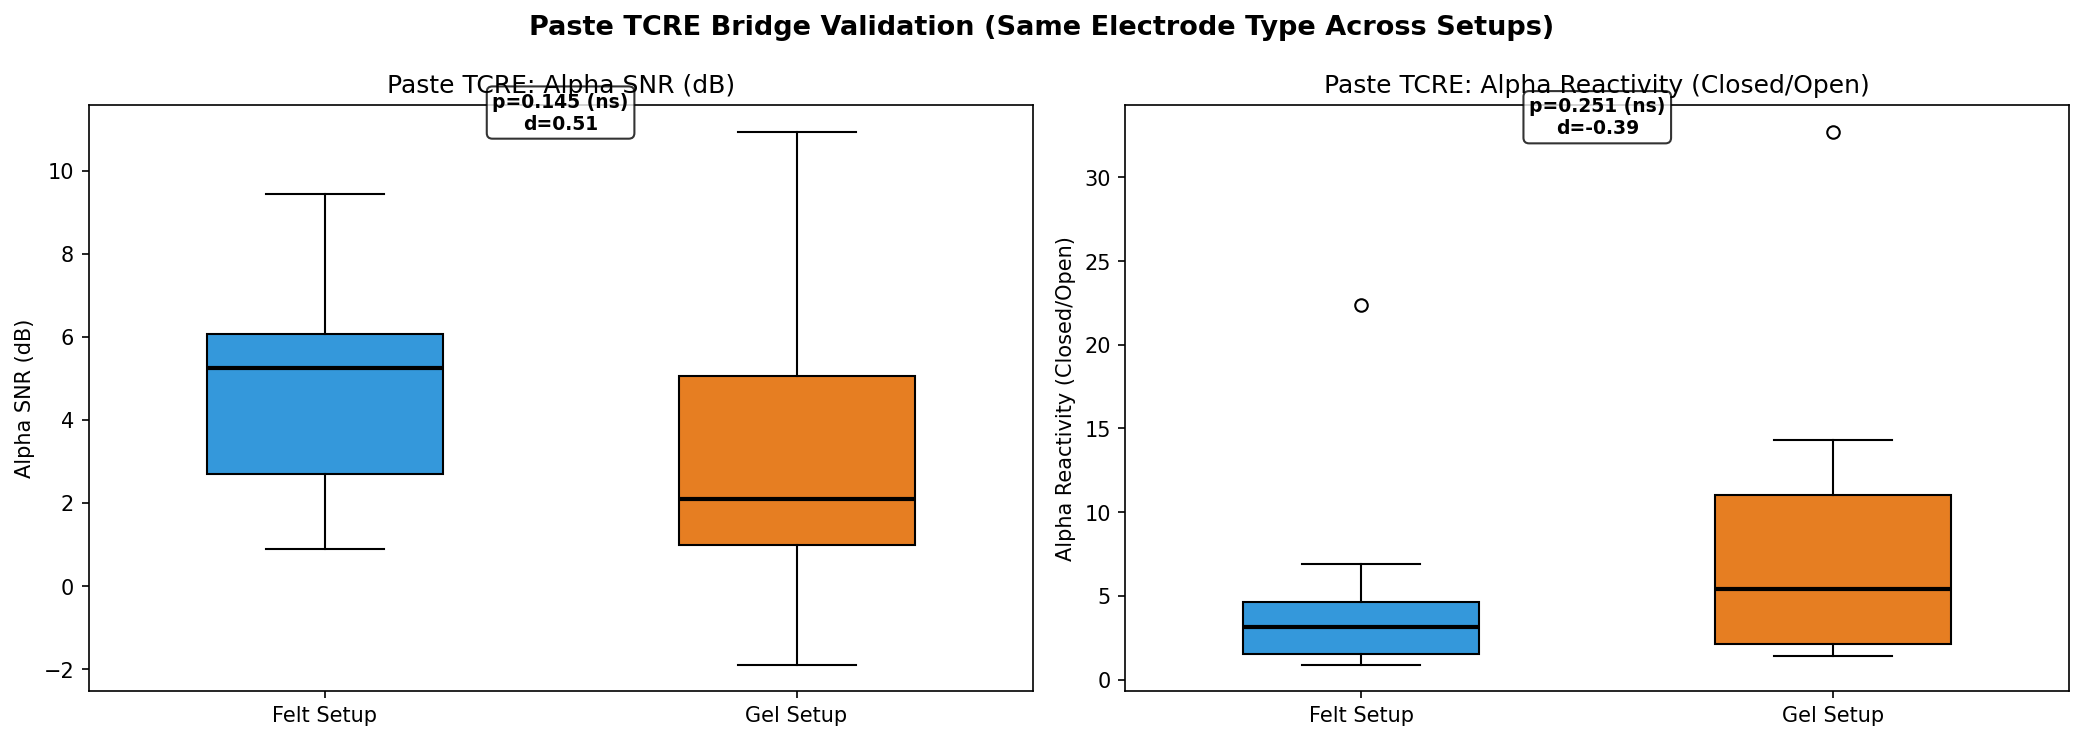
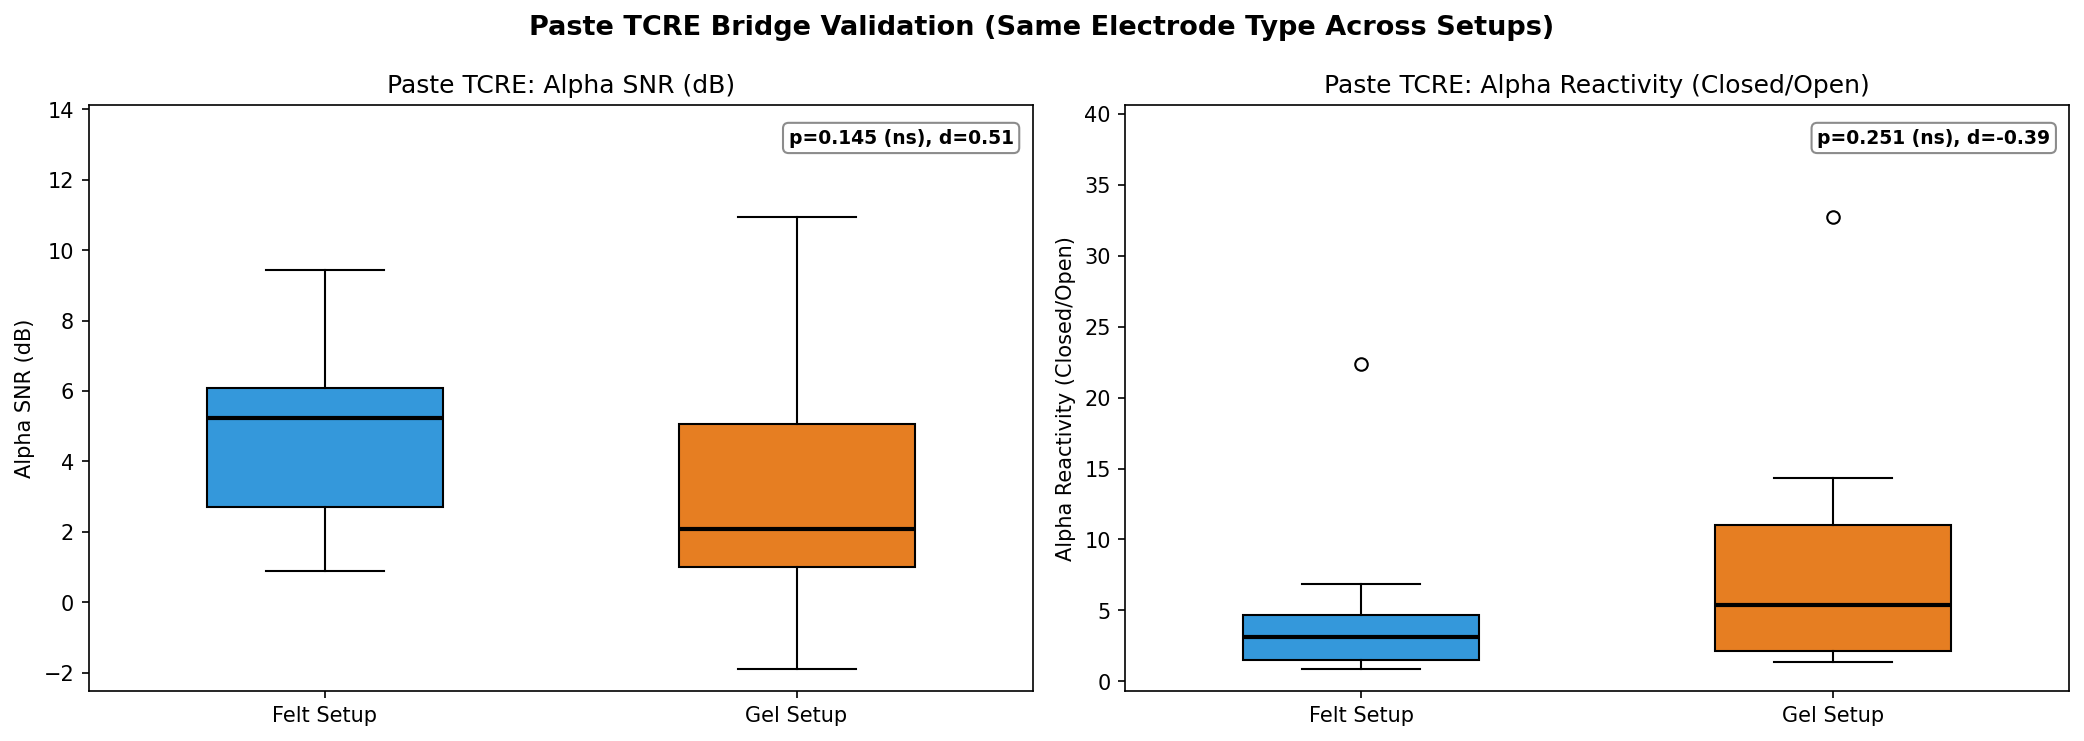
Move paste-bridge p-value box out of the title area
The annotation box reporting p and Cohen's d on each Paste TCRE
bridge subplot was anchored at y=0.95*ymax in data coordinates and
horizontally centred between the two box-plots, which placed it on
top of the subplot title. Switch to axes-fraction coordinates with
the box anchored to the top-right corner (0.98, 0.96), pad the
y-axis by 18 percent so the box has clear headroom, and tighten
the bbox styling. The boxes now sit cleanly inside each panel
without overlapping the title.

Numbers in auto_stats.{md,json} were re-emitted by the same run
that regenerated the figure; their content is unchanged.

diff --git a/src/tripolar_eeg/comparison_analysis.py b/src/tripolar_eeg/comparison_analysis.py
@@ -1111,10 +1111,16 @@ def plot_three_way_comparison(felt_subjects, gel_subjects, save_dir=None, show=T
             if bridge_key in comp["comparisons"]:
                 c = comp["comparisons"][bridge_key]
                 sig = "***" if c["p"] < 0.001 else "**" if c["p"] < 0.01 else "*" if c["p"] < 0.05 else "ns"
-                ax.text(1.5, ax.get_ylim()[1] * 0.95,
-                        f"p={c['p']:.3f} ({sig})\nd={c['d']:.2f}",
-                        ha="center", fontsize=9, fontweight="bold",
-                        bbox=dict(boxstyle="round", fc="white", alpha=0.8))
+                # Pad the y-range so the annotation sits in clear headroom
+                # below the subplot title rather than overlapping it.
+                lo, hi = ax.get_ylim()
+                ax.set_ylim(lo, hi + 0.18 * (hi - lo))
+                ax.text(0.98, 0.96,
+                        f"p={c['p']:.3f} ({sig}), d={c['d']:.2f}",
+                        transform=ax.transAxes, ha="right", va="top",
+                        fontsize=9, fontweight="bold",
+                        bbox=dict(boxstyle="round,pad=0.3",
+                                  fc="white", ec="0.5", alpha=0.9))
 
         plt.tight_layout()
         _save_or_show(fig, "comparison_paste_bridge.png")

diff --git a/paper/auto_stats.md b/paper/auto_stats.md
@@ -38,27 +38,29 @@ Source: `scripts/build_paper_stats.py` on the pooled-felt cohort (felt = long + 
 | alpha_reactivity | 10 | 13 | 46.0 | 0.251 | -0.39 |
 | ssim | 10 | 13 | 69.0 | 0.828 | 0.01 |
 
-## All Mann–Whitney comparisons
-| Contrast | n_a | n_b | U | p | Cohen d |
-|--|--|--|--|--|--|
-| Felt_tEEG_vs_Paste_tEEG_alpha_snr | 10 | 10 | 1.0 | 0.004 | -1.34 |
-| Felt_tEEG_vs_Paste_tEEG_alpha_reactivity | 10 | 10 | 5.0 | 0.020 | -0.58 |
-| Felt_tEEG_vs_Paste_tEEG_ssim | 10 | 10 | 1.0 | 0.004 | -1.95 |
-| Gel_tEEG_vs_Paste_tEEG_alpha_snr | 13 | 13 | 25.0 | 0.168 | -0.41 |
-| Gel_tEEG_vs_Paste_tEEG_alpha_reactivity | 13 | 13 | 23.0 | 0.127 | -0.43 |
-| Gel_tEEG_vs_Paste_tEEG_ssim | 13 | 13 | 7.0 | 0.005 | -1.03 |
-| Felt_eEEG_vs_Paste_eEEG_alpha_snr | 10 | 10 | 8.0 | 0.049 | -0.76 |
-| Felt_eEEG_vs_Paste_eEEG_alpha_reactivity | 10 | 10 | 14.0 | 0.193 | -0.38 |
-| Felt_eEEG_vs_Paste_eEEG_ssim | 10 | 10 | 1.0 | 0.004 | -1.95 |
-| Gel_eEEG_vs_Paste_eEEG_alpha_snr | 13 | 13 | 19.0 | 0.068 | -0.53 |
-| Gel_eEEG_vs_Paste_eEEG_alpha_reactivity | 13 | 13 | 32.0 | 0.376 | -0.28 |
-| Gel_eEEG_vs_Paste_eEEG_ssim | 13 | 13 | 7.0 | 0.005 | -1.03 |
-| Felt_tEEG_vs_Gel_tEEG_alpha_snr | 10 | 13 | 68.0 | 0.877 | -0.00 |
-| Felt_tEEG_vs_Gel_tEEG_alpha_reactivity | 10 | 13 | 26.0 | 0.017 | -1.11 |
-| Felt_tEEG_vs_Gel_tEEG_ssim | 10 | 13 | 0.0 | 0.000 | -2.52 |
-| Felt_eEEG_vs_Gel_eEEG_alpha_snr | 10 | 13 | 50.0 | 0.369 | -0.58 |
-| Felt_eEEG_vs_Gel_eEEG_alpha_reactivity | 10 | 13 | 34.0 | 0.059 | -0.81 |
-| Felt_eEEG_vs_Gel_eEEG_ssim | 10 | 13 | 0.0 | 0.000 | -2.52 |
-| Paste_bridge_felt_vs_gel_alpha_snr | 10 | 13 | 89.0 | 0.145 | 0.51 |
-| Paste_bridge_felt_vs_gel_alpha_reactivity | 10 | 13 | 46.0 | 0.251 | -0.39 |
-| Paste_bridge_felt_vs_gel_ssim | 10 | 13 | 69.0 | 0.828 | 0.01 |
+## All cross-construction comparisons
+Within-setup contrasts (paired by subject) use Wilcoxon signed-rank with Cohen's $d_z$; between-setup contrasts use Mann--Whitney U with Cohen's $d$.
+
+| Contrast | Test | n_a | n_b | stat | p | d / d_z |
+|--|--|--|--|--|--|--|
+| Felt_tEEG_vs_Paste_tEEG_alpha_snr | Wilcoxon signed-rank | 10 | 10 | 1.0 | 0.004 | -1.34 |
+| Felt_tEEG_vs_Paste_tEEG_alpha_reactivity | Wilcoxon signed-rank | 10 | 10 | 5.0 | 0.020 | -0.58 |
+| Felt_tEEG_vs_Paste_tEEG_ssim | Wilcoxon signed-rank | 10 | 10 | 1.0 | 0.004 | -1.95 |
+| Gel_tEEG_vs_Paste_tEEG_alpha_snr | Wilcoxon signed-rank | 13 | 13 | 25.0 | 0.168 | -0.41 |
+| Gel_tEEG_vs_Paste_tEEG_alpha_reactivity | Wilcoxon signed-rank | 13 | 13 | 23.0 | 0.127 | -0.43 |
+| Gel_tEEG_vs_Paste_tEEG_ssim | Wilcoxon signed-rank | 13 | 13 | 7.0 | 0.005 | -1.03 |
+| Felt_eEEG_vs_Paste_eEEG_alpha_snr | Wilcoxon signed-rank | 10 | 10 | 8.0 | 0.049 | -0.76 |
+| Felt_eEEG_vs_Paste_eEEG_alpha_reactivity | Wilcoxon signed-rank | 10 | 10 | 14.0 | 0.193 | -0.38 |
+| Felt_eEEG_vs_Paste_eEEG_ssim | Wilcoxon signed-rank | 10 | 10 | 1.0 | 0.004 | -1.95 |
+| Gel_eEEG_vs_Paste_eEEG_alpha_snr | Wilcoxon signed-rank | 13 | 13 | 19.0 | 0.068 | -0.53 |
+| Gel_eEEG_vs_Paste_eEEG_alpha_reactivity | Wilcoxon signed-rank | 13 | 13 | 32.0 | 0.376 | -0.28 |
+| Gel_eEEG_vs_Paste_eEEG_ssim | Wilcoxon signed-rank | 13 | 13 | 7.0 | 0.005 | -1.03 |
+| Felt_tEEG_vs_Gel_tEEG_alpha_snr | Mann-Whitney U | 10 | 13 | 68.0 | 0.877 | -0.00 |
+| Felt_tEEG_vs_Gel_tEEG_alpha_reactivity | Mann-Whitney U | 10 | 13 | 26.0 | 0.017 | -1.11 |
+| Felt_tEEG_vs_Gel_tEEG_ssim | Mann-Whitney U | 10 | 13 | 0.0 | 0.000 | -2.52 |
+| Felt_eEEG_vs_Gel_eEEG_alpha_snr | Mann-Whitney U | 10 | 13 | 50.0 | 0.369 | -0.58 |
+| Felt_eEEG_vs_Gel_eEEG_alpha_reactivity | Mann-Whitney U | 10 | 13 | 34.0 | 0.059 | -0.81 |
+| Felt_eEEG_vs_Gel_eEEG_ssim | Mann-Whitney U | 10 | 13 | 0.0 | 0.000 | -2.52 |
+| Paste_bridge_felt_vs_gel_alpha_snr | Mann-Whitney U | 10 | 13 | 89.0 | 0.145 | 0.51 |
+| Paste_bridge_felt_vs_gel_alpha_reactivity | Mann-Whitney U | 10 | 13 | 46.0 | 0.251 | -0.39 |
+| Paste_bridge_felt_vs_gel_ssim | Mann-Whitney U | 10 | 13 | 69.0 | 0.828 | 0.01 |
